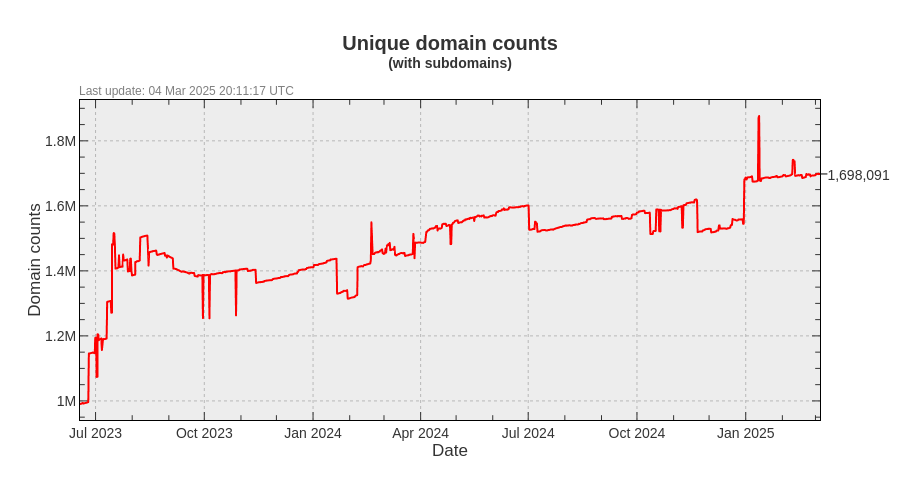
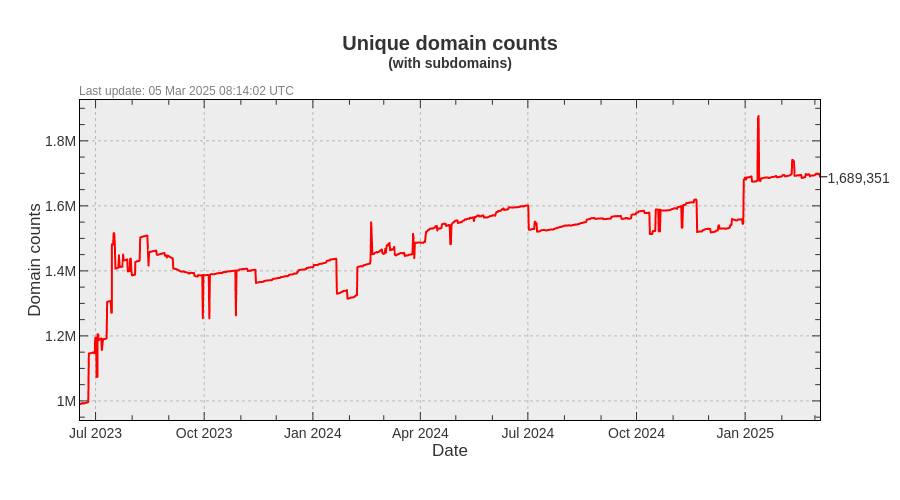
Update pages

diff --git a/README.md b/README.md
@@ -3,22 +3,22 @@ A blacklist file for blocking ads, trackers and malware domains.
 
[1 lines of base64/hex data omitted]
 
-- Unique domains: 1,698,091
-- Without subdomains: 1,070,954
-- Last update: 04 Mar 2025 20:11:17 UTC
-- Version: 2025.03.04.02
+- Unique domains: 1,689,351
+- Without subdomains: 1,063,641
+- Last update: 05 Mar 2025 08:14:02 UTC
+- Version: 2025.03.05.01
 
 
 ### Downloads:
 
 | Format             | Domain count      | Download Link |
 |:------------------ | -----------------:|:-------------:|
-| *Adblock Plus*     | 1,070,954 | [Download](https://dl.cenk.app/bad-hosts/bad-hosts-abp) |
-| *Wildcard domains* | 1,070,954 | [Download](https://dl.cenk.app/bad-hosts/bad-hosts-wildcard) |
-| *dnsmasq*          | 1,070,954 | [Download](https://dl.cenk.app/bad-hosts/bad-hosts-dnsmasq) |
-| *Unbound*          | 1,070,954 | [Download](https://dl.cenk.app/bad-hosts/bad-hosts-unbound) |
-| *hosts*            | 1,698,091 | [Download](https://dl.cenk.app/bad-hosts/hosts) |
-| *hosts (ipv6)*     | 1,698,091 | [Download](https://dl.cenk.app/bad-hosts/hosts-ipv6) |
-| *Plain domains*    | 1,698,091 | [Download](https://dl.cenk.app/bad-hosts/bad-hosts-domains) |
+| *Adblock Plus*     | 1,063,641 | [Download](https://dl.cenk.app/bad-hosts/bad-hosts-abp) |
+| *Wildcard domains* | 1,063,641 | [Download](https://dl.cenk.app/bad-hosts/bad-hosts-wildcard) |
+| *dnsmasq*          | 1,063,641 | [Download](https://dl.cenk.app/bad-hosts/bad-hosts-dnsmasq) |
+| *Unbound*          | 1,063,641 | [Download](https://dl.cenk.app/bad-hosts/bad-hosts-unbound) |
+| *hosts*            | 1,689,351 | [Download](https://dl.cenk.app/bad-hosts/hosts) |
+| *hosts (ipv6)*     | 1,689,351 | [Download](https://dl.cenk.app/bad-hosts/hosts-ipv6) |
+| *Plain domains*    | 1,689,351 | [Download](https://dl.cenk.app/bad-hosts/bad-hosts-domains) |
 
 
